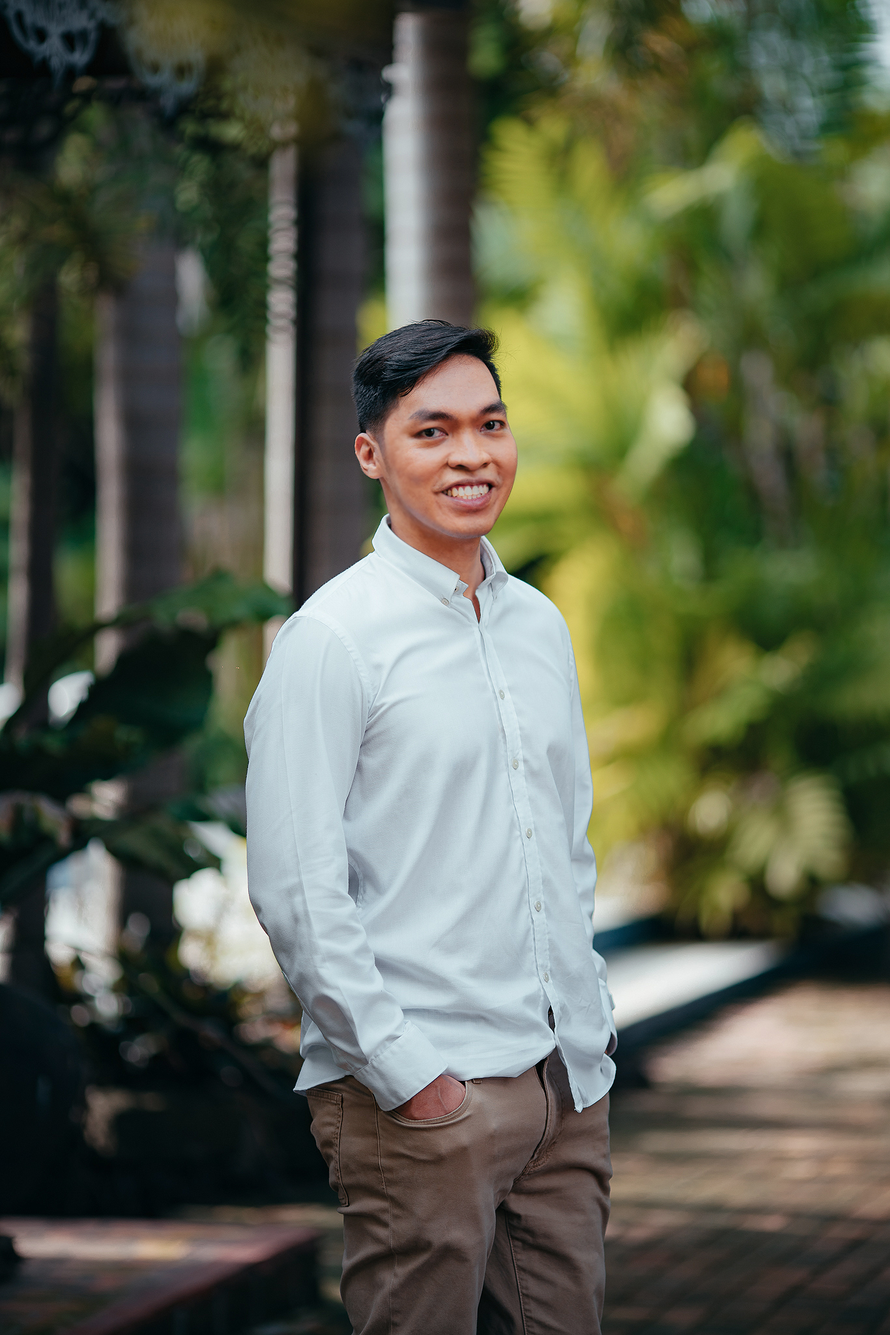
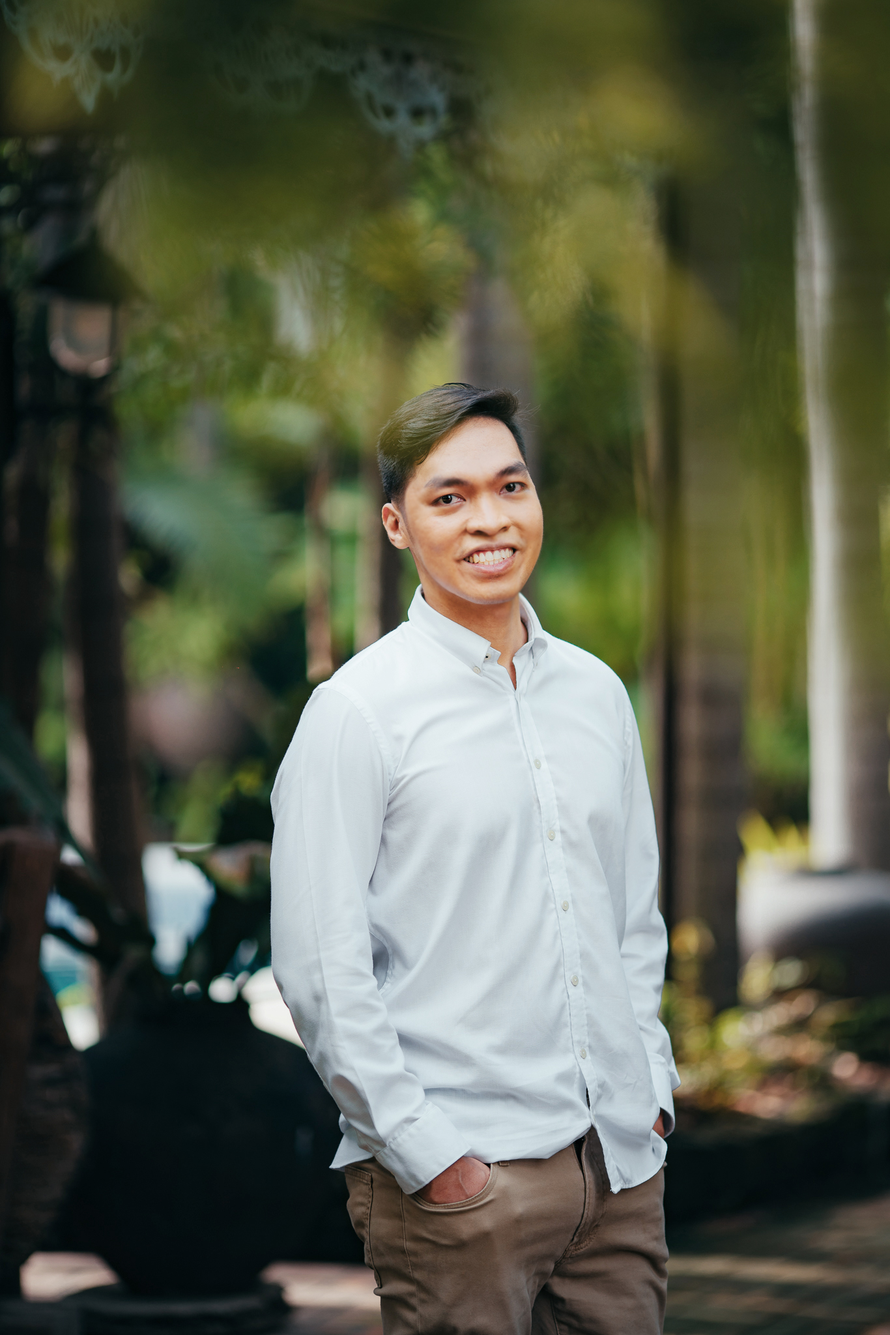
replaced images

diff --git a/index.html b/index.html
@@ -24,9 +24,11 @@
 <body id="home" class="scrollspy" style="scroll-behavior: smooth;">
   <!-- Header -->
   <header class="main-header">
-    
+    <div class="main-header--overlay show-on-small">
+
+    </div>
     <!-- Showcase -->
-    <div class="">
+    <div class="main-header__primary">
         <nav class="transparent  ">
             <div class="nav-wrapper hide-on-small-only">
               <!-- <a href="#home" class="brand-logo hide-on-med-and-down">JD2020</a> -->
@@ -35,7 +37,7 @@
               </a> -->
               <div class="row center">
                 <div class="nav-link col m5cols"><a href="#ourstory">OUR STORY</a></div>
-                <div class="nav-link col m5cols px-0">WHEN & WHERE</div>
+                <div class="nav-link col m5cols px-0">WHERE</div>
                 <div class="nav-link col m5cols">REGISTRY</div>
                 <div class="nav-link col m5cols">GALLERY</div>
                 <div class="nav-link col m5cols">MESSAGES</div>
@@ -148,9 +150,12 @@
     <div class="valign-wrapper">
       <div class="container">
         <div class="row">
-          <div class="col s12 m6 center">
-            <img src="img/lee-darwin.jpg" alt="Groom" style="max-height: 400px; "
-              class="z-depth-3 center ">
+          <div class="col s12 m6 section__details">
+            <div class="section__img-container">
+              <img src="img/lee-darwin.jpg" alt="Groom"
+              class="z-depth-3 section-couple__img--lee">
+            </div>
+            
             <h3 class="center">Lee Darwin</h3>
             <p>Lorem ipsum dolor, sit amet consectetur adipisicing elit. Unde, aut? Nostrum aspernatur nobis debitis
               vitae consequatur odio esse quam culpa, amet a! Sit sed temporibus dicta totam dolor beatae quis?</p>
@@ -163,9 +168,12 @@
                 </a>
               </div>
           </div>
-          <div class="col s12 m6 center" style="overflow:hidden">
-            <img src="img/jelani.jpg" alt="Bride" style="max-height: 400px;"
-              class="z-depth-3 center ">
+          <div class="col s12 m6 section__details">
+            <div class="section__img-container">
+              <img src="img/jelani.jpg" alt="Bride"
+              class="z-depth-3 section-couple__img--jelani">
+            </div>
+            
             <h3 class="center">Jelani Graizelle</h3>
             <p>Lorem ipsum dolor, sit amet consectetur adipisicing elit. Unde, aut? Nostrum aspernatur nobis debitis
               vitae consequatur odio esse quam culpa, amet a! Sit sed temporibus dicta totam dolor beatae quis?</p>
@@ -202,10 +210,13 @@
     <div class="valign-wrapper">
       <div class="container">
         <div class="row">
-          <div class="col s12 m6 center">
-            <img src="img/together 4 - slider.png" alt="Groom" style="max-height: 400px;"
-              class="z-depth-3 center responsive-img">
+          <div class="col s12 m6 section__details">
+            <div class="section__img-container">
+              <img src="img/our-story-1.jpg" alt="First time we met"
+              class="z-depth-3 section-couple__img--os1">
+            </div>
           </div>
+          
           <div class="col s12 m6" style="padding-left:20px">
             <span>August 02, 2014</span>
             <h4>First time we met</h4>
@@ -220,9 +231,11 @@
           </div>
         </div>
         <div class="row">
-          <div class="col s12 m6 center">
-            <img src="img/together 5 - slider.png" alt="Groom" style="max-height: 400px;"
-              class="z-depth-3 center responsive-img">
+          <div class="col s12 m6 section__details">
+            <div class="section__img-container">
+              <img src="img/our-story-2.jpg" alt="First time we met"
+              class="z-depth-3 section-couple__img--os2">
+            </div>
           </div>
           <div class="col s12 m6" style="padding-left:20px">
             <span>May 28, 2017</span>
@@ -238,9 +251,11 @@
           </div>
         </div>
         <div class="row">
-          <div class="col s12 m6 center">
-            <img src="img/together 6 - slider.png" alt="Groom" style="max-height: 400px;"
-              class="z-depth-3 center responsive-img">
+          <div class="col s12 m6 section__details">
+            <div class="section__img-container">
+              <img src="img/our-story-3.jpg" alt="First time we met"
+              class="z-depth-3 section-couple__img--os3">
+            </div>
           </div>
           <div class="col s12 m6" style="padding-left:20px">
             <span>November 13, 2019</span>
@@ -264,9 +279,11 @@
     <div class="valign-wrapper">
       <div class="container">
         <div class="row">
-          <div class="col s12 m6 center">
-            <img src="img/together 3.png" alt="Groom" style="max-height: 400px;"
-              class="z-depth-3 center responsive-img">
+          <div class="col s12 m6 section__details">
+            <div class="section__img-container">
+              <img src="img/our-story-4.jpg" alt="We're getting married"
+              class="z-depth-3 section-couple__img--os4">
+            </div>
           </div>
           <div class="col s12 m6" style="padding-left:20px">
             <span>November 28, 2020</span>
@@ -288,9 +305,9 @@
   <section id="gettingmarried" class="section">
     <div class="section-passage parallax-container">
       <div class="parallax">
-        <img src="img/jela swoosh.jpg">
+        <img src="img/passage.jpg" class="section-passage__img">
       </div>
-      <div class="primary-overlay valign-wrapper">
+      <div class="sction-passage__text">
         <div class="container">
           <div class="center white-text">
             <h3>WHEN THE TIME IS RIGHT, I, THE LORD, WILL MAKE IT HAPPEN</h2>
@@ -302,7 +319,7 @@
   </section>
 
   <!-- Section: Events -->
-  <section id="moments" class="section-slider slider">
+  <!-- <section id="moments" class="section-slider slider">
     <ul class="slides">
       <li>
         <img src="img/together 4 - slider.png" alt="">
@@ -310,7 +327,6 @@
           <h2>Gigil bear photos</h2>
           <h5 class="light grey-text text-lighten-3 hide-on-small-only">Our moments crazy fun moments together as bg gfs
           </h5>
-          <!-- <a href="#" class="btn btn-large">Learn More</a> -->
         </div>
       </li>
       <li>
@@ -319,7 +335,6 @@
           <h2>Engagement and Announcements</h2>
           <h5 class="light grey-text text-lighten-3 hide-on-small-only">We are supported by very loving community
             family!</h5>
-          <!-- <a href="#" class="btn btn-large">Learn More</a> -->
         </div>
       </li>
       <li>
@@ -331,7 +346,7 @@
         </div>
       </li>
     </ul>
-  </section>
+  </section> -->
 
   <!-- Section: Couple Header -->
   <section class="section section-couple__header">

diff --git a/css/main.css b/css/main.css
@@ -6,6 +6,14 @@ html {
   scroll-behavior: smooth;
 }
 
+html::-webkit-scrollbar {
+  display: none;
+}
+
+nav {
+  box-shadow: none;
+}
+
 body {
   font-family: 'Aleo', serif;
   color: #1b313f;
@@ -92,6 +100,18 @@ body {
   position: relative;
 }
 
+.main-header--overlay {
+  background: rgba(27, 49, 63, 0.7);
+  position: absolute;
+  top: 0;
+  left: 0;
+  width: 100%;
+  height: 100%;
+  overflow: hidden;
+  display: none;
+}
+
+
 .main-header h1 {
   text-shadow: 1px 1px 5px #1b313f;
 }
@@ -146,9 +166,74 @@ body {
   margin-left:20px;
 }
 
+.section-couple__img:hover {
+  color:black;
+  /* transform: scale(1.15); */
+}
+.section__details {
+  position: relative;
+  text-align: center;
+  overflow: hidden;
+}
+
+.section__img-container {
+  position: relative;
+  /* display: inline-block; */
+  overflow: hidden;
+  margin: auto;
+  height: 400px;
+  width: 400px;
+}
+
+.section-couple__img--lee {
+    position: absolute;
+    width: 100%;
+    left: -28px;
+    top: -159px;
+}
+.section-couple__img--jelani {
+  position: absolute;
+  height: 100%;
+  left: -29px;
+  top: 0px;
+}
+
+.section-couple__img--os1 {
+  position: absolute;
+  width: 100%;
+  left: -13px;
+  top: -58px;
+}
+
+.section-couple__img--os2,
+.section-couple__img--os3 {
+  position: absolute;
+  height: 100%;
+  left: -107px;
+  top: 0;
+}
+
+.section-couple__img--os4 {
+  position: absolute;
+  height: 100%;
+  left: -121px;
+  top: 6px;
+}
+
+
 .section-passage {
   height: 400px; 
+  display:flex;
 }
+
+.sction-passage__text{
+  display:flex;
+  margin:auto;
+}
+
+/* .section-passage__img {
+  left: 0 !important;
+} */
 
 .section-countdown {
   height: 400px; 
@@ -221,10 +306,12 @@ body {
 }
 
 @media only screen and (min-width: 601px) {
+}
+
+@media only screen and (min-width: 601px) {
   .row .col.m5cols {
     width: 20%;
   }
-  
 }
 
 @media only screen and (min-width: 993px) {
